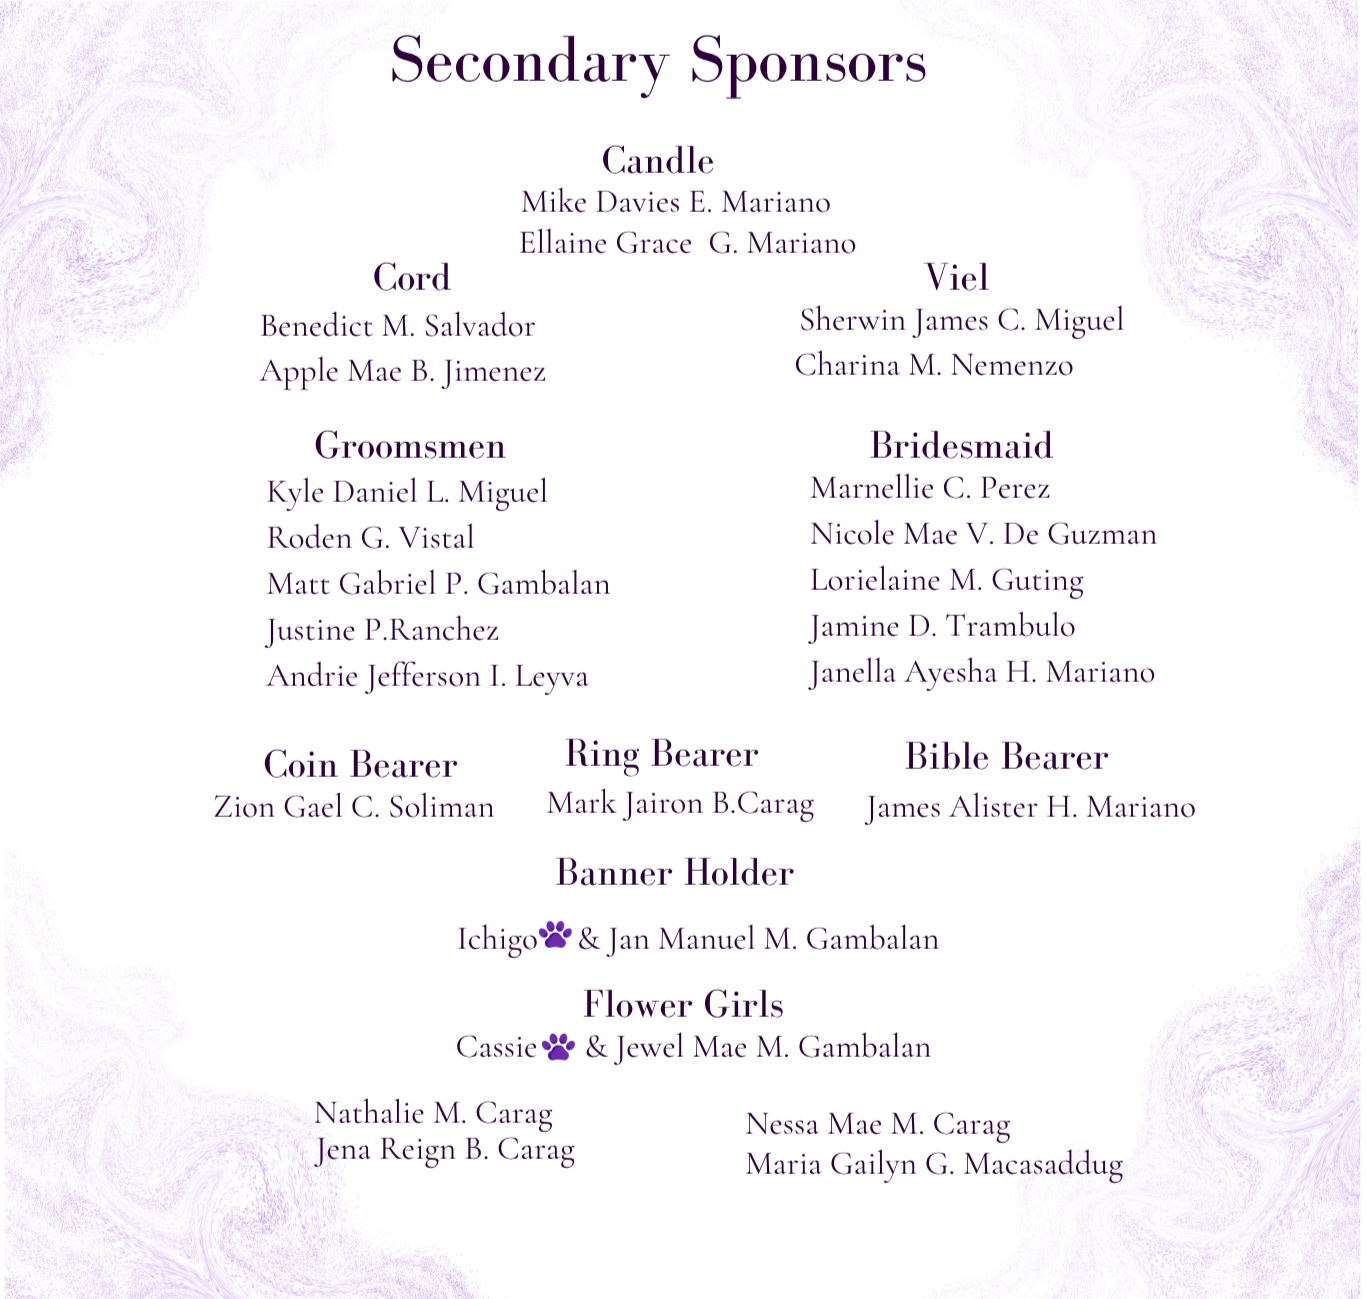
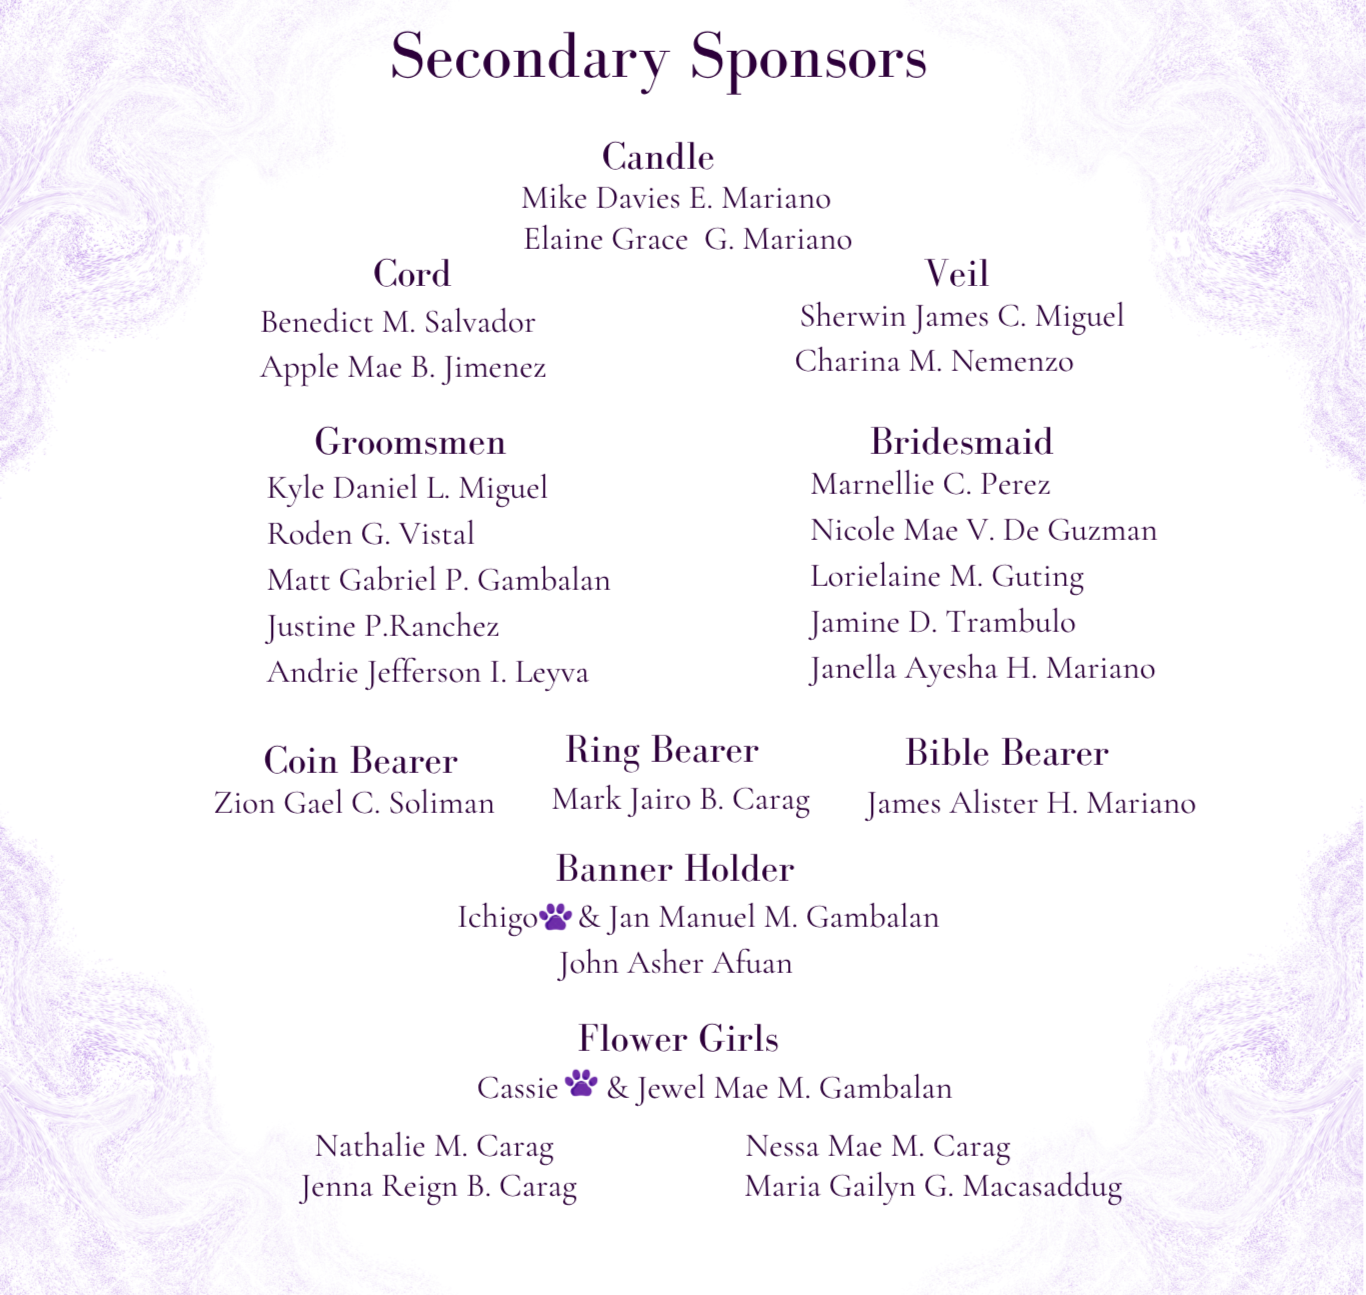
Update of Pages

diff --git a/src/components/Rsvp.tsx b/src/components/Rsvp.tsx
@@ -12,9 +12,9 @@ const Rsvp = () => {
           viewport={{ once: true, amount: 0.3 }}
           transition={{ duration: 0.6 }}
         >
-          <h2 className="font-serif text-5xl mb-4 [text-shadow:_1px_1px_0_gray,_-1px_-1px_0_gray,_1px_-1px_0_gray,_-1px_1px_0_gray]">Rsvp</h2>
+          <h2 className="font-serif text-5xl mb-4 [text-shadow:_1px_1px_0_gray,_-1px_-1px_0_gray,_1px_-1px_0_gray,_-1px_1px_0_gray]">RSVP</h2>
           <p className="font-serif text-xl text-white mb-3">
-            We have reserved a ____ seat/s for you,
+            We have reserved a seat for you,
           </p>
           <p className="font-serif text-xl text-white mb-6">
             Please confirm by clicking this
@@ -23,7 +23,7 @@ const Rsvp = () => {
             href="https://docs.google.com/forms/d/e/1FAIpQLSdt_KcL-7W8s6B96_mnBXJcps3tUziKs3MoQnlmMLcSIi-TnQ/viewform"
             target="_blank"
             rel="noopener noreferrer"
-            className="underline inline-block bg-[#B4A1CB] hover:bg-[#8B74B6] hover:text-white font-serif text-xl hover:text-2xl py-5 px-8 rounded-xl transition duration-300 shadow-md border hover:border-2"
+            className="underline inline-block bg-white text-black font-serif text-xl hover:text-2xl py-5 px-8 rounded-full transition duration-300 shadow-md border hover:border-2"
           >
             RSVP HERE
           </a>
